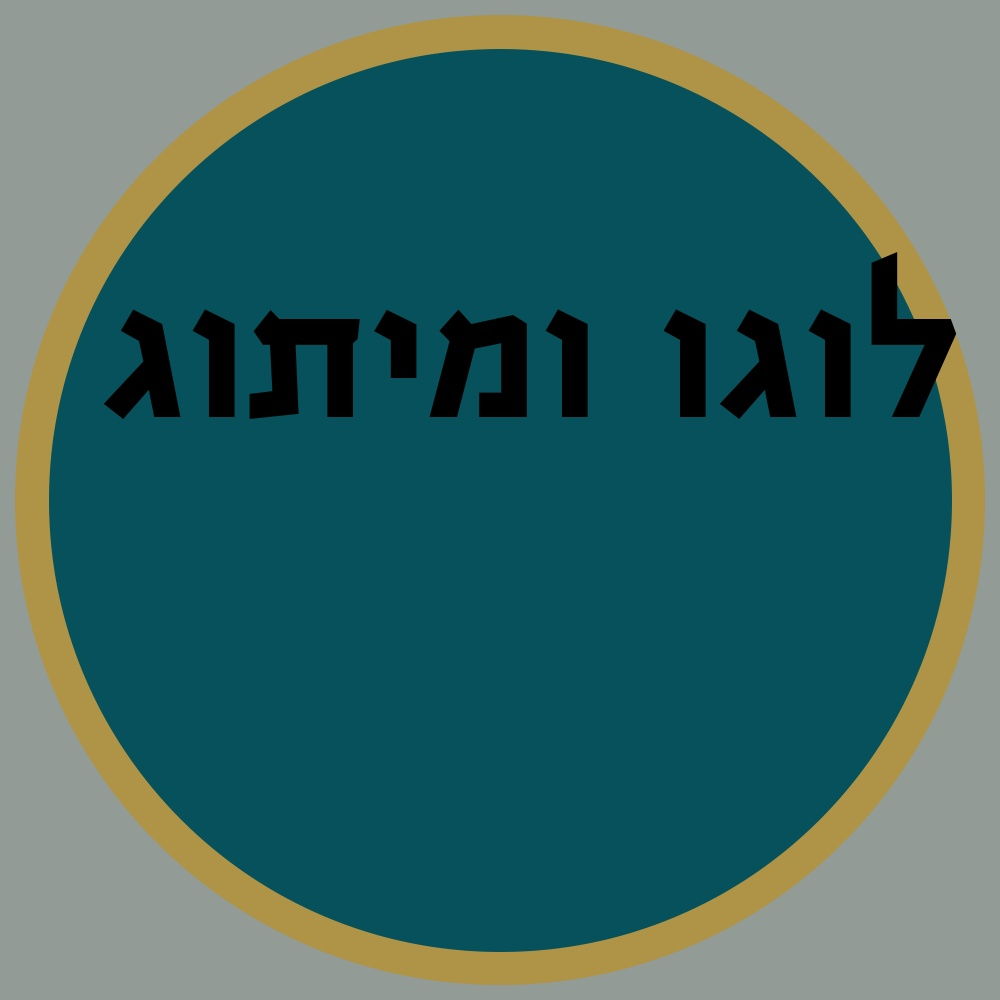
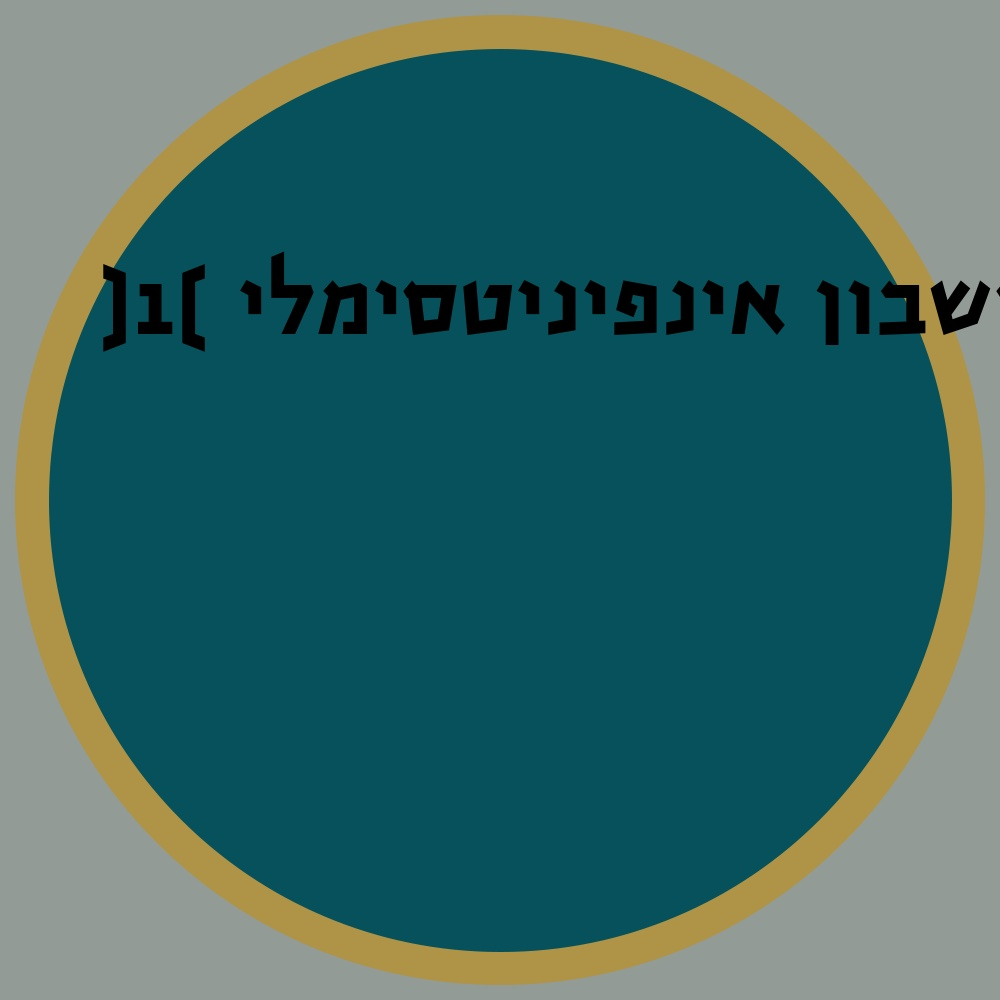
it works (?)

Changed region(s): [[0.093, 0.248, 0.992, 0.434]]

diff --git a/main.py b/main.py
@@ -58,7 +58,7 @@ def TestTextToIcon(Text, TemplateImage, Font, FilePath):
 
     # Get a drawing context
     draw = ImageDraw.Draw(im_p)
-    monospace = ImageFont.truetype(Font,200)
+    monospace = ImageFont.truetype(Font,100)
 
     draw.text(
         (100,250), # text space
@@ -72,9 +72,6 @@ def TestTextToIcon(Text, TemplateImage, Font, FilePath):
     result_o = np.array(im_p)
     cv2.imwrite(FilePath, result_o)
 
-StringToBeRevesed = """לוגו ומיתוג"""[::-1]
-
-# TestTextToIcon(StringToBeRevesed, "Template.png","fonts/Huji-Bold.otf","pfp.jpg")
 
 ShnatonJson = requests.get("https://shnaton.huji.ac.il/api/courses/code/80131?year=2027")
 
@@ -85,3 +82,10 @@ if ShantonObject[0]['code'] == '80131':
     print("good")
 else:
     print("bad")
+
+print(ShantonObject[0]['name']['he'])
+
+
+StringToBeRevesed = ShantonObject[0]['name']['he'][::-1]
+
+TestTextToIcon(StringToBeRevesed, "Template.png","fonts/Huji-Bold.otf","pfp.jpg")
